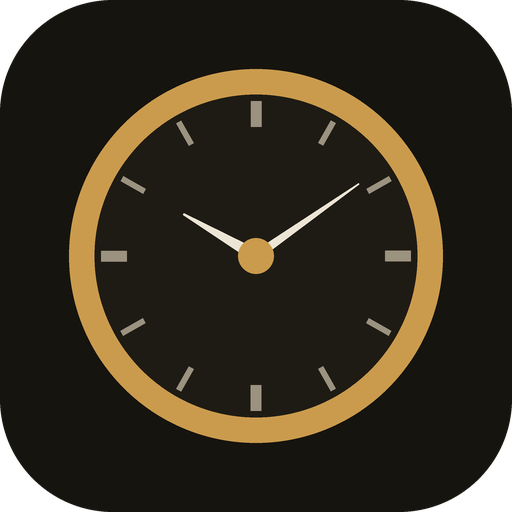
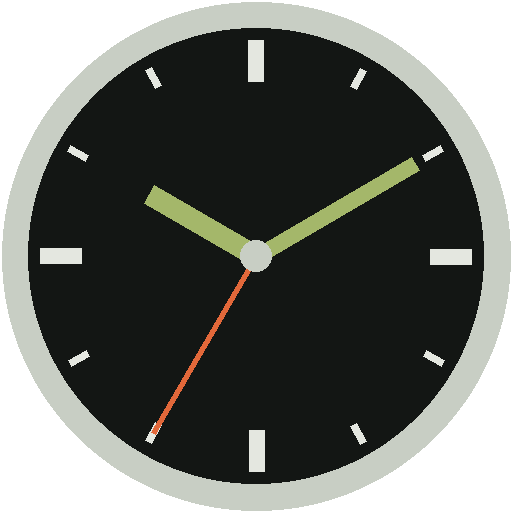
style: tool-watch theme — brushed steel, NATO olive/navy, mono spec-sheet type
Replaces the paper-and-brass identity: cool steel/bone surfaces (black-dial
charcoal in dark), monospace display type for brand/headings/watch labels,
NATO olive on action buttons, navy on links/focus/nav underline, signal
orange reserved for warnings. 3px navy-olive NATO stripe under the nav.
Sharper radius, flatter shadows, flat background. PWA icons regenerated
(steel case, black dial, lume hands, orange seconds); manifest/theme-color
updated. Chart palette re-validated numerically against the new surfaces.

diff --git a/src/app.css b/src/app.css
@@ -1,25 +1,27 @@
 /* horolog — visual identity
-   Quietly premium, horological: warm paper-and-brass in light, deep
-   gunmetal-and-brass in dark. Serif for the brand mark and headings
-   (evokes engraved dial text); system sans for body copy; tabular
-   monospace reserved for numerals (durations, prices, stats).
-   No external fonts/CDN — system stacks only. */
+   Tool-watch utilitarian: brushed steel and bone in light, black-dial
+   charcoal in dark. NATO olive as the working accent, signal orange
+   strictly for warnings (the chrono hand). Monospace display type for
+   the brand mark, headings, and watch labels — every watch gets the
+   same engraving, the $30 Timex and the $6k Tudor alike. System sans
+   for body copy. No external fonts/CDN — system stacks only. */
 
 :root {
-	--bg: #f6f1e6;
-	--bg-raised: #fbf8f1;
-	--fg: #211f1a;
-	--fg-muted: #7a7263;
-	--border: #ddd2ba;
-	--accent: #96682e;
-	--accent-fg: #fbf8f1;
-	--danger: #9a3324;
-	--danger-fg: #fbf8f1;
+	--bg: #eef0ec;
+	--bg-raised: #f7f8f4;
+	--fg: #1b1e1b;
+	--fg-muted: #626a61;
+	--border: #c8cec4;
+	--accent: #4d5f37;
+	--accent-fg: #f7f8f4;
+	--navy: #2b4a70;
+	--danger: #b23c17;
+	--danger-fg: #f7f8f4;
 
-	--radius: 7px;
-	--shadow: 0 1px 2px rgba(33, 31, 26, 0.06), 0 4px 14px rgba(33, 31, 26, 0.05);
+	--radius: 4px;
+	--shadow: 0 1px 0 rgba(27, 30, 27, 0.04), 0 1px 3px rgba(27, 30, 27, 0.08);
 
-	--font-serif: ui-serif, Georgia, 'Iowan Old Style', 'Palatino Linotype', 'Times New Roman', serif;
+	--font-display: ui-monospace, 'SF Mono', 'Cascadia Mono', Menlo, Consolas, monospace;
 	--font-sans:
 		-apple-system, system-ui, 'Segoe UI', Roboto, 'Helvetica Neue', Arial, sans-serif;
 	--font-mono: ui-monospace, 'SF Mono', 'Cascadia Mono', Menlo, Consolas, monospace;
@@ -29,17 +31,18 @@
 
 @media (prefers-color-scheme: dark) {
 	:root {
-		--bg: #16140f;
-		--bg-raised: #1e1b14;
-		--fg: #ece5d5;
-		--fg-muted: #9c9280;
-		--border: #37311f;
-		--accent: #cb9b4d;
-		--accent-fg: #16140f;
-		--danger: #d97a63;
-		--danger-fg: #16140f;
+		--bg: #131614;
+		--bg-raised: #1b1f1c;
+		--fg: #e4e7e0;
+		--fg-muted: #8e978c;
+		--border: #343b34;
+		--accent: #a4b76a;
+		--accent-fg: #131614;
+		--navy: #8fb0d4;
+		--danger: #e2683a;
+		--danger-fg: #131614;
 
-		--shadow: 0 1px 2px rgba(0, 0, 0, 0.35), 0 4px 16px rgba(0, 0, 0, 0.3);
+		--shadow: 0 1px 0 rgba(0, 0, 0, 0.4), 0 1px 4px rgba(0, 0, 0, 0.35);
 
 		color-scheme: dark;
 	}
@@ -56,9 +59,7 @@ html {
 body {
 	margin: 0;
 	min-height: 100dvh;
-	background:
-		radial-gradient(ellipse 60rem 30rem at 50% -10rem, color-mix(in srgb, var(--accent) 7%, transparent), transparent),
-		var(--bg);
+	background: var(--bg);
 	color: var(--fg);
 	font-family: var(--font-sans);
 	font-size: 16px;
@@ -77,20 +78,20 @@ h1,
 h2,
 h3,
 h4 {
-	font-family: var(--font-serif);
+	font-family: var(--font-display);
 	font-weight: 600;
-	line-height: 1.25;
+	line-height: 1.3;
 	margin: 0 0 0.5em;
 	color: var(--fg);
+	letter-spacing: -0.01em;
 }
 
 h1 {
-	font-size: 1.6rem;
-	letter-spacing: 0.01em;
+	font-size: 1.45rem;
 }
 
 h2 {
-	font-size: 1.25rem;
+	font-size: 1.1rem;
 }
 
 p {
@@ -104,7 +105,7 @@ small,
 }
 
 a {
-	color: var(--accent);
+	color: var(--navy);
 }
 
 /* Tabular figures for durations, prices, counts, timestamps */
@@ -175,7 +176,7 @@ select:focus-visible,
 textarea:focus-visible,
 button:focus-visible,
 a:focus-visible {
-	outline: 2px solid var(--accent);
+	outline: 2px solid var(--navy);
 	outline-offset: 2px;
 }
 

diff --git a/src/lib/components/Nav.svelte b/src/lib/components/Nav.svelte
@@ -18,16 +18,38 @@
 
 <style>
 	nav {
+		position: relative;
 		display: flex;
 		align-items: center;
 		gap: 1.5rem;
 		padding: 0.9rem 1.25rem;
-		border-bottom: 1px solid var(--border);
 		background: var(--bg-raised);
 	}
 
+	/* NATO stripe: navy / olive / navy */
+	nav::after {
+		content: '';
+		position: absolute;
+		left: 0;
+		right: 0;
+		bottom: 0;
+		height: 3px;
+		background: linear-gradient(
+			90deg,
+			var(--navy) 0 25%,
+			var(--accent) 25% 75%,
+			var(--navy) 75% 100%
+		);
+	}
+
+	@media (prefers-color-scheme: dark) {
+		nav::after {
+			opacity: 0.65; /* lume tokens run hot on the black dial — keep the stripe quiet */
+		}
+	}
+
 	.brand {
-		font-family: var(--font-serif);
+		font-family: var(--font-display);
 		font-size: 1.05rem;
 		font-weight: 600;
 		letter-spacing: 0.14em;
@@ -65,7 +87,7 @@
 		right: 0;
 		bottom: -1px;
 		height: 2px;
-		background: var(--accent);
+		background: var(--navy);
 		border-radius: 1px;
 	}
 

diff --git a/src/lib/components/charts/palette.ts b/src/lib/components/charts/palette.ts
@@ -2,10 +2,11 @@
 //
 // This is the dataviz skill's documented default 8-hue categorical palette
 // (references/palette.md), validated with scripts/validate_palette.js against
-// horolog's actual card surfaces (light #fbf8f1, dark #1e1b14):
-//   light: all 6 checks PASS (contrast WARN on slots 3/4/5 — mitigated by
-//   always pairing a colored mark with a text label/legend, never color alone)
-//   dark:  all 6 checks PASS outright
+// horolog's original card surfaces and re-checked numerically (WCAG contrast)
+// against the current steel surfaces (light #f7f8f4, dark #1b1f1c):
+//   light: PASS with contrast WARN on slots 3/4/5 (2.0-2.6:1) — mitigated by
+//   always pairing a colored mark with a text label/legend, never color alone
+//   dark:  all slots >= 3.3:1, PASS outright
 //
 // Order is the CVD-safety mechanism (worst adjacent normal-vision ΔE 19.6
 // light / 19.3 dark) — never re-cycle or reorder per-chart.

diff --git a/src/routes/watches/[id]/+page.svelte b/src/routes/watches/[id]/+page.svelte
@@ -324,7 +324,7 @@
 	}
 
 	.primary-photo.placeholder span {
-		font-family: var(--font-serif);
+		font-family: var(--font-display);
 		font-size: 3rem;
 		letter-spacing: 0.05em;
 		color: var(--fg-muted);
@@ -368,7 +368,7 @@
 	}
 
 	.stat-value {
-		font-family: var(--font-serif);
+		font-family: var(--font-display);
 		font-size: 1.7rem;
 		color: var(--accent);
 		line-height: 1.1;

diff --git a/src/app.html b/src/app.html
@@ -7,7 +7,7 @@
 		<link rel="manifest" href="/manifest.webmanifest" />
 		<link rel="icon" href="/icon-192.png" />
 		<link rel="apple-touch-icon" href="/icon-192.png" />
-		<meta name="theme-color" content="#16140f" />
+		<meta name="theme-color" content="#131614" />
 		%sveltekit.head%
 	</head>
 	<body data-sveltekit-preload-data="hover">

diff --git a/src/lib/components/SessionRow.svelte b/src/lib/components/SessionRow.svelte
@@ -99,7 +99,7 @@
 		gap: 0.5rem 0.75rem;
 	}
 	.summary strong {
-		font-family: var(--font-serif);
+		font-family: var(--font-display);
 	}
 	.duration {
 		font-size: 0.85rem;

diff --git a/src/lib/components/WatchForm.svelte b/src/lib/components/WatchForm.svelte
@@ -205,7 +205,7 @@
 	legend {
 		float: left;
 		width: 100%;
-		font-family: var(--font-serif);
+		font-family: var(--font-display);
 		font-weight: 600;
 		font-size: 0.9rem;
 		letter-spacing: 0.08em;

diff --git a/src/routes/+page.svelte b/src/routes/+page.svelte
@@ -149,7 +149,7 @@
 
 	details.sold summary {
 		cursor: pointer;
-		font-family: var(--font-serif);
+		font-family: var(--font-display);
 		font-weight: 600;
 		color: var(--fg-muted);
 	}